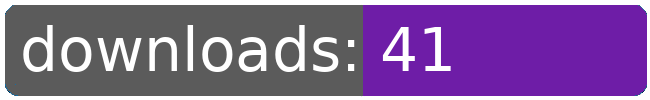
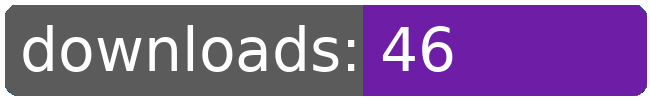
dl log written

Changed region(s): [[0.6462, 0.27, 0.7077, 0.72]]

diff --git a/README.md b/README.md
@@ -21,8 +21,8 @@
 		<td>7</td>
 		<td>8</td>
 		<td>8</td>
-		<td>8</td>
-		<td></td>
+		<td>9</td>
+		<td>+ 1</td>
 	</tr>
 	<tr>
 		<td>automata.in.human.space</td>
@@ -32,8 +32,8 @@
 		<td>7</td>
 		<td>8</td>
 		<td>8</td>
-		<td>8</td>
-		<td></td>
+		<td>9</td>
+		<td>+ 1</td>
 	</tr>
 	<tr>
 		<td>better.starts</td>
@@ -43,8 +43,8 @@
 		<td>9</td>
 		<td>10</td>
 		<td>10</td>
-		<td>10</td>
-		<td></td>
+		<td>11</td>
+		<td>+ 1</td>
 	</tr>
 	<tr>
 		<td>disable.person.ships</td>
@@ -54,8 +54,8 @@
 		<td>6</td>
 		<td>7</td>
 		<td>7</td>
-		<td>7</td>
-		<td></td>
+		<td>8</td>
+		<td>+ 1</td>
 	</tr>
 	<tr>
 		<td>disable.spaceport.repeatables</td>
@@ -65,8 +65,8 @@
 		<td>7</td>
 		<td>8</td>
 		<td>8</td>
-		<td>8</td>
-		<td></td>
+		<td>9</td>
+		<td>+ 1</td>
 	</tr>
 	<tr>
 		<td></td>
@@ -76,8 +76,8 @@
 		<td></td>
 		<td></td>
 		<td></td>
-		<td>41</td>
-		<td>0</td>
+		<td>46</td>
+		<td>5</td>
 	</tr>
 </table>
 </sub></sup>
@@ -102,8 +102,8 @@
 		<td>9</td>
 		<td>10</td>
 		<td>10</td>
-		<td>10</td>
-		<td></td>
+		<td>11</td>
+		<td>+ 1</td>
 	</tr>
 	<tr>
 		<td>disable.spaceport.repeatables</td>
@@ -113,8 +113,8 @@
 		<td>7</td>
 		<td>8</td>
 		<td>8</td>
-		<td>8</td>
-		<td></td>
+		<td>9</td>
+		<td>+ 1</td>
 	</tr>
 	<tr>
 		<td>automata.in.human.space</td>
@@ -124,8 +124,8 @@
 		<td>7</td>
 		<td>8</td>
 		<td>8</td>
-		<td>8</td>
-		<td></td>
+		<td>9</td>
+		<td>+ 1</td>
 	</tr>
 	<tr>
 		<td>automata.destruction.0percent</td>
@@ -135,8 +135,8 @@
 		<td>7</td>
 		<td>8</td>
 		<td>8</td>
-		<td>8</td>
-		<td></td>
+		<td>9</td>
+		<td>+ 1</td>
 	</tr>
 	<tr>
 		<td>disable.person.ships</td>
@@ -146,8 +146,8 @@
 		<td>6</td>
 		<td>7</td>
 		<td>7</td>
-		<td>7</td>
-		<td></td>
+		<td>8</td>
+		<td>+ 1</td>
 	</tr>
 	<tr>
 		<td></td>
@@ -157,8 +157,8 @@
 		<td></td>
 		<td></td>
 		<td></td>
-		<td>41</td>
-		<td>0</td>
+		<td>46</td>
+		<td>5</td>
 	</tr>
 </table>
 </sub></sup>
@@ -166,7 +166,6 @@
 <table>
 	<tr>
 		<td> </td>
-		<td>2025-10-19</td>
 		<td>2025-10-20</td>
 		<td>2025-10-21</td>
 		<td>2025-10-22</td>
@@ -175,10 +174,10 @@
 		<td>2025-10-25</td>
 		<td>2025-10-26</td>
 		<td>2025-10-27</td>
+		<td>2025-10-28</td>
 	</tr>
 	<tr>
 		<td>page views</td>
-		<td>0</td>
 		<td>0</td>
 		<td>0</td>
 		<td>0</td>
@@ -187,10 +186,10 @@
 		<td>92</td>
 		<td>39</td>
 		<td>3</td>
+		<td>21</td>
 	</tr>
 	<tr>
 		<td>unique visitors</td>
-		<td>0</td>
 		<td>0</td>
 		<td>0</td>
 		<td>0</td>
@@ -199,6 +198,7 @@
 		<td>3</td>
 		<td>2</td>
 		<td>1</td>
+		<td>2</td>
 	</tr>
 </table>
 <br>
@@ -212,8 +212,8 @@
 	</tr>
 	<tr>
 		<td>2025-10-11</td>
-		<td>173</td>
-		<td>7</td>
+		<td>194</td>
+		<td>9</td>
 		<td>92</td>
 		<td>3</td>
 	</tr>
@@ -226,8 +226,8 @@
 	</tr>
 	<tr>
 		<td>17</td>
-		<td>10.18</td>
-		<td>0.41</td>
+		<td>11.41</td>
+		<td>0.53</td>
 		<td></td>
 		<td></td>
 	</tr>
